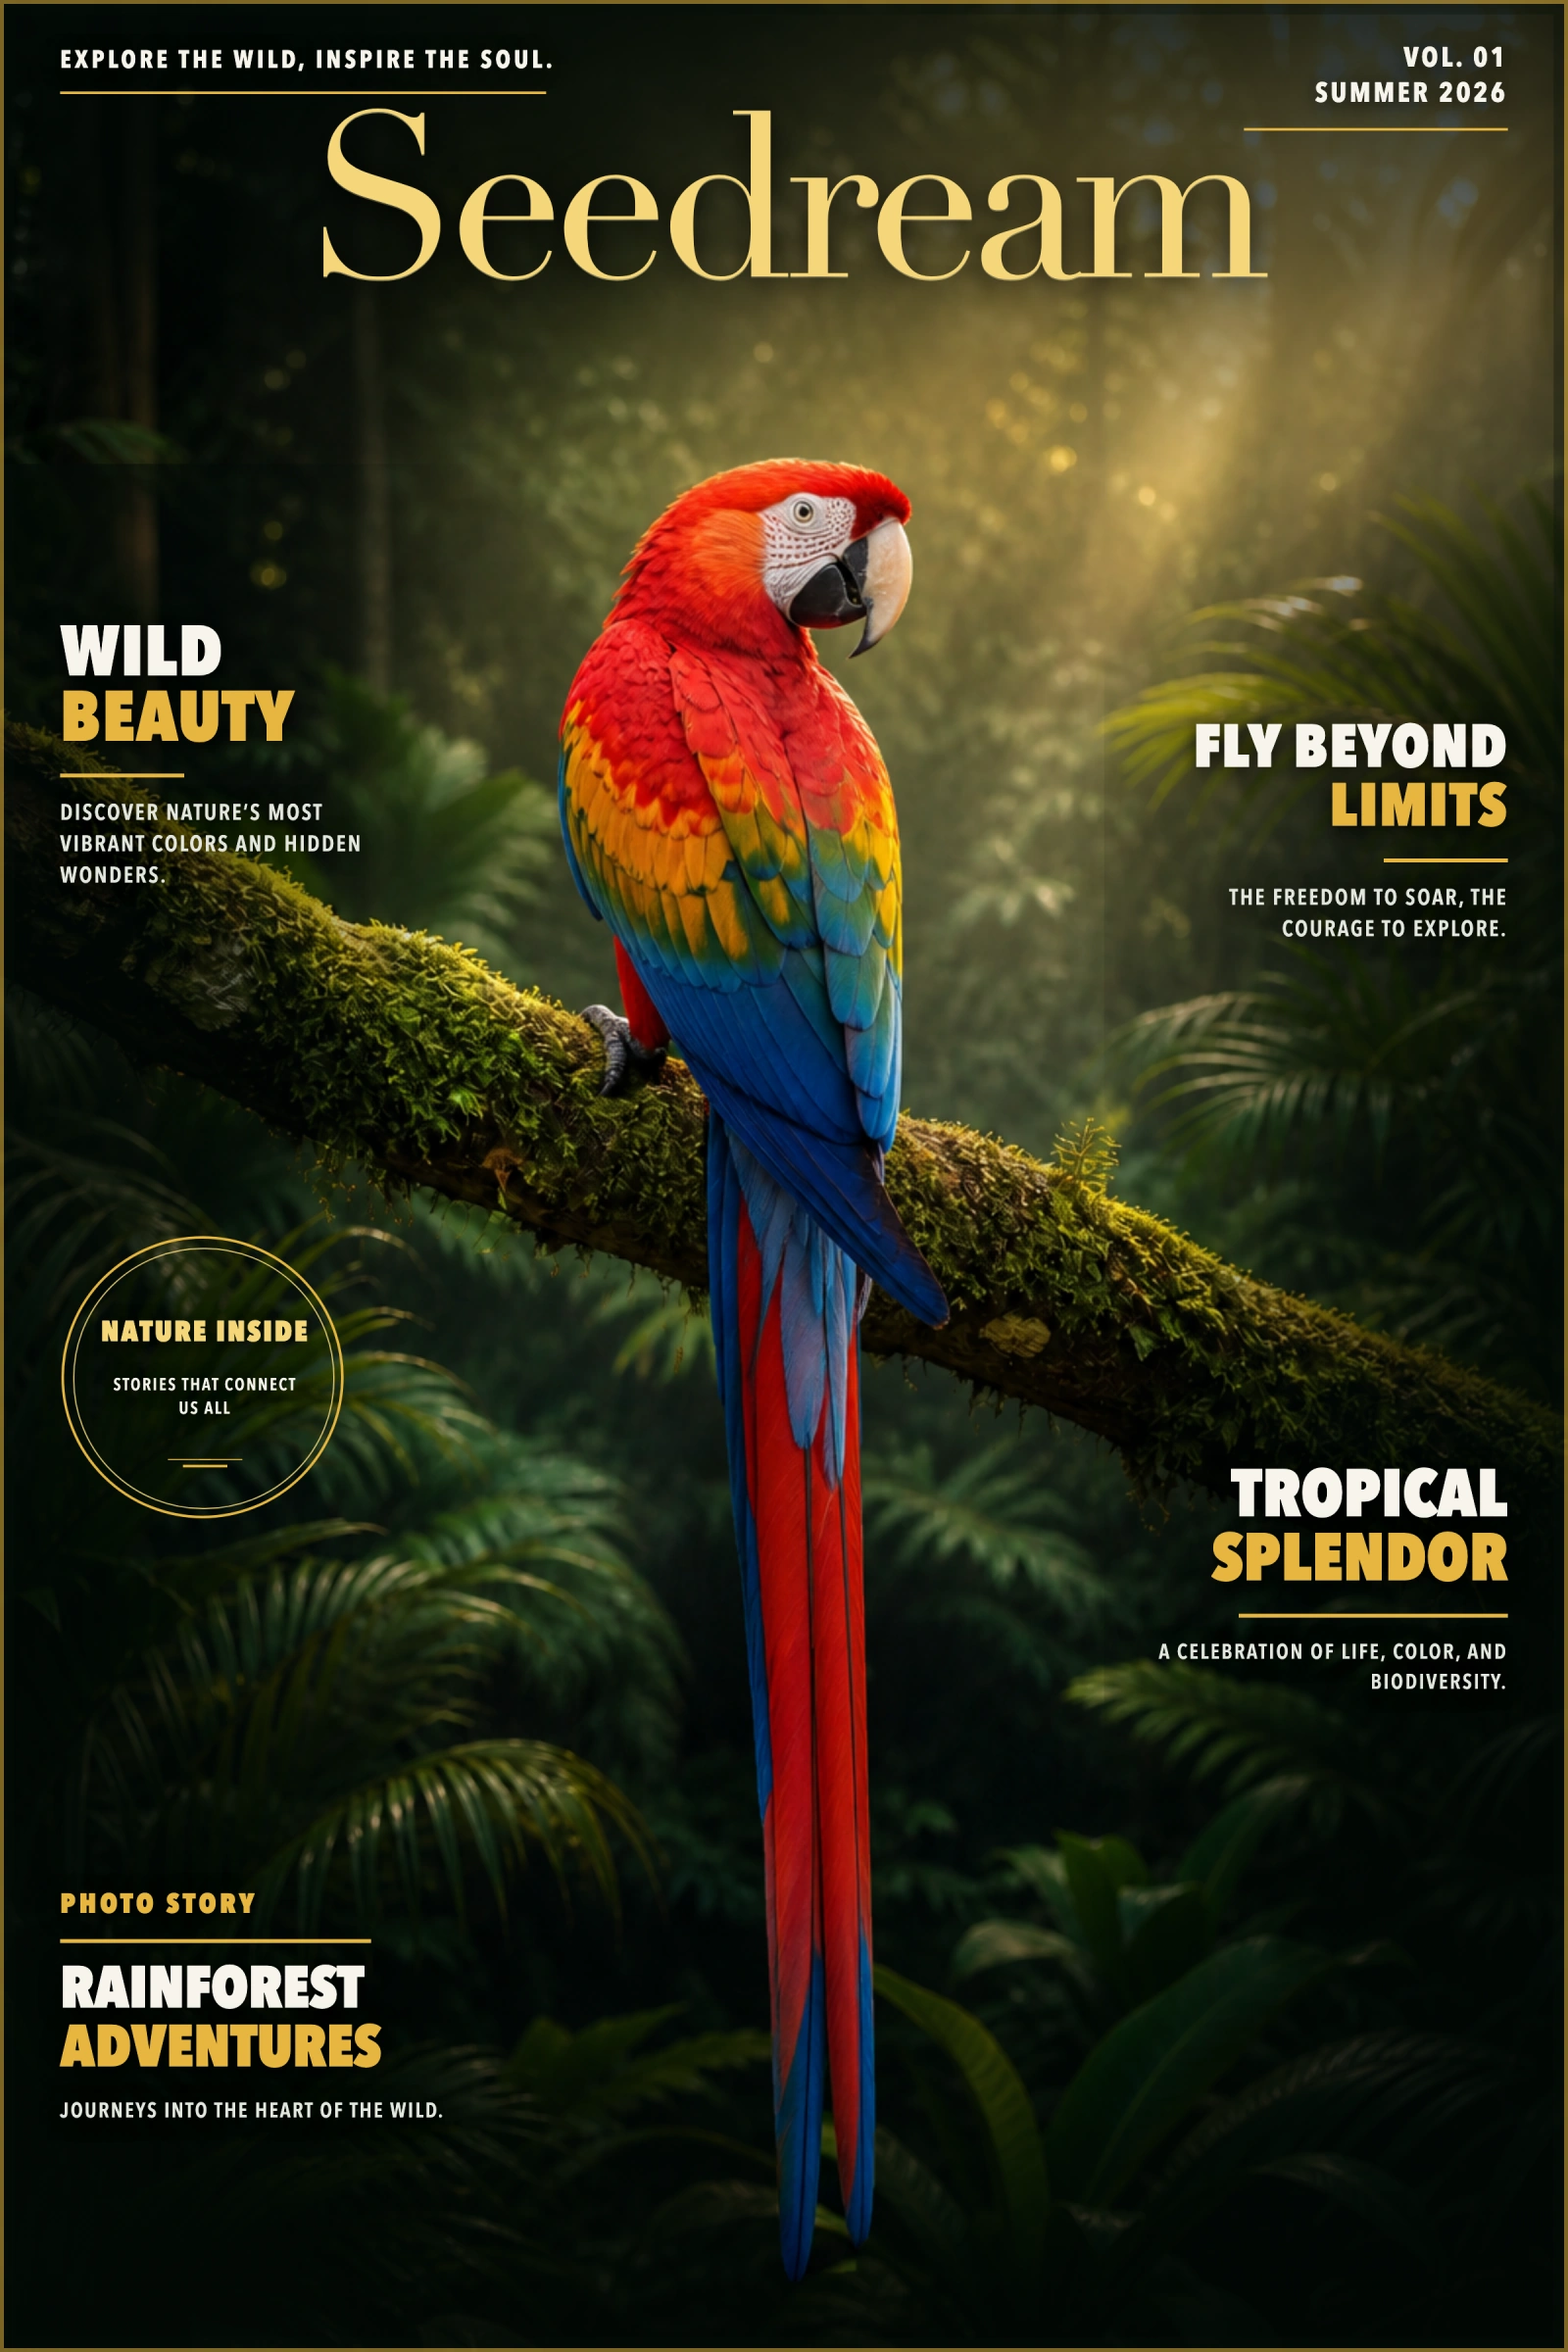
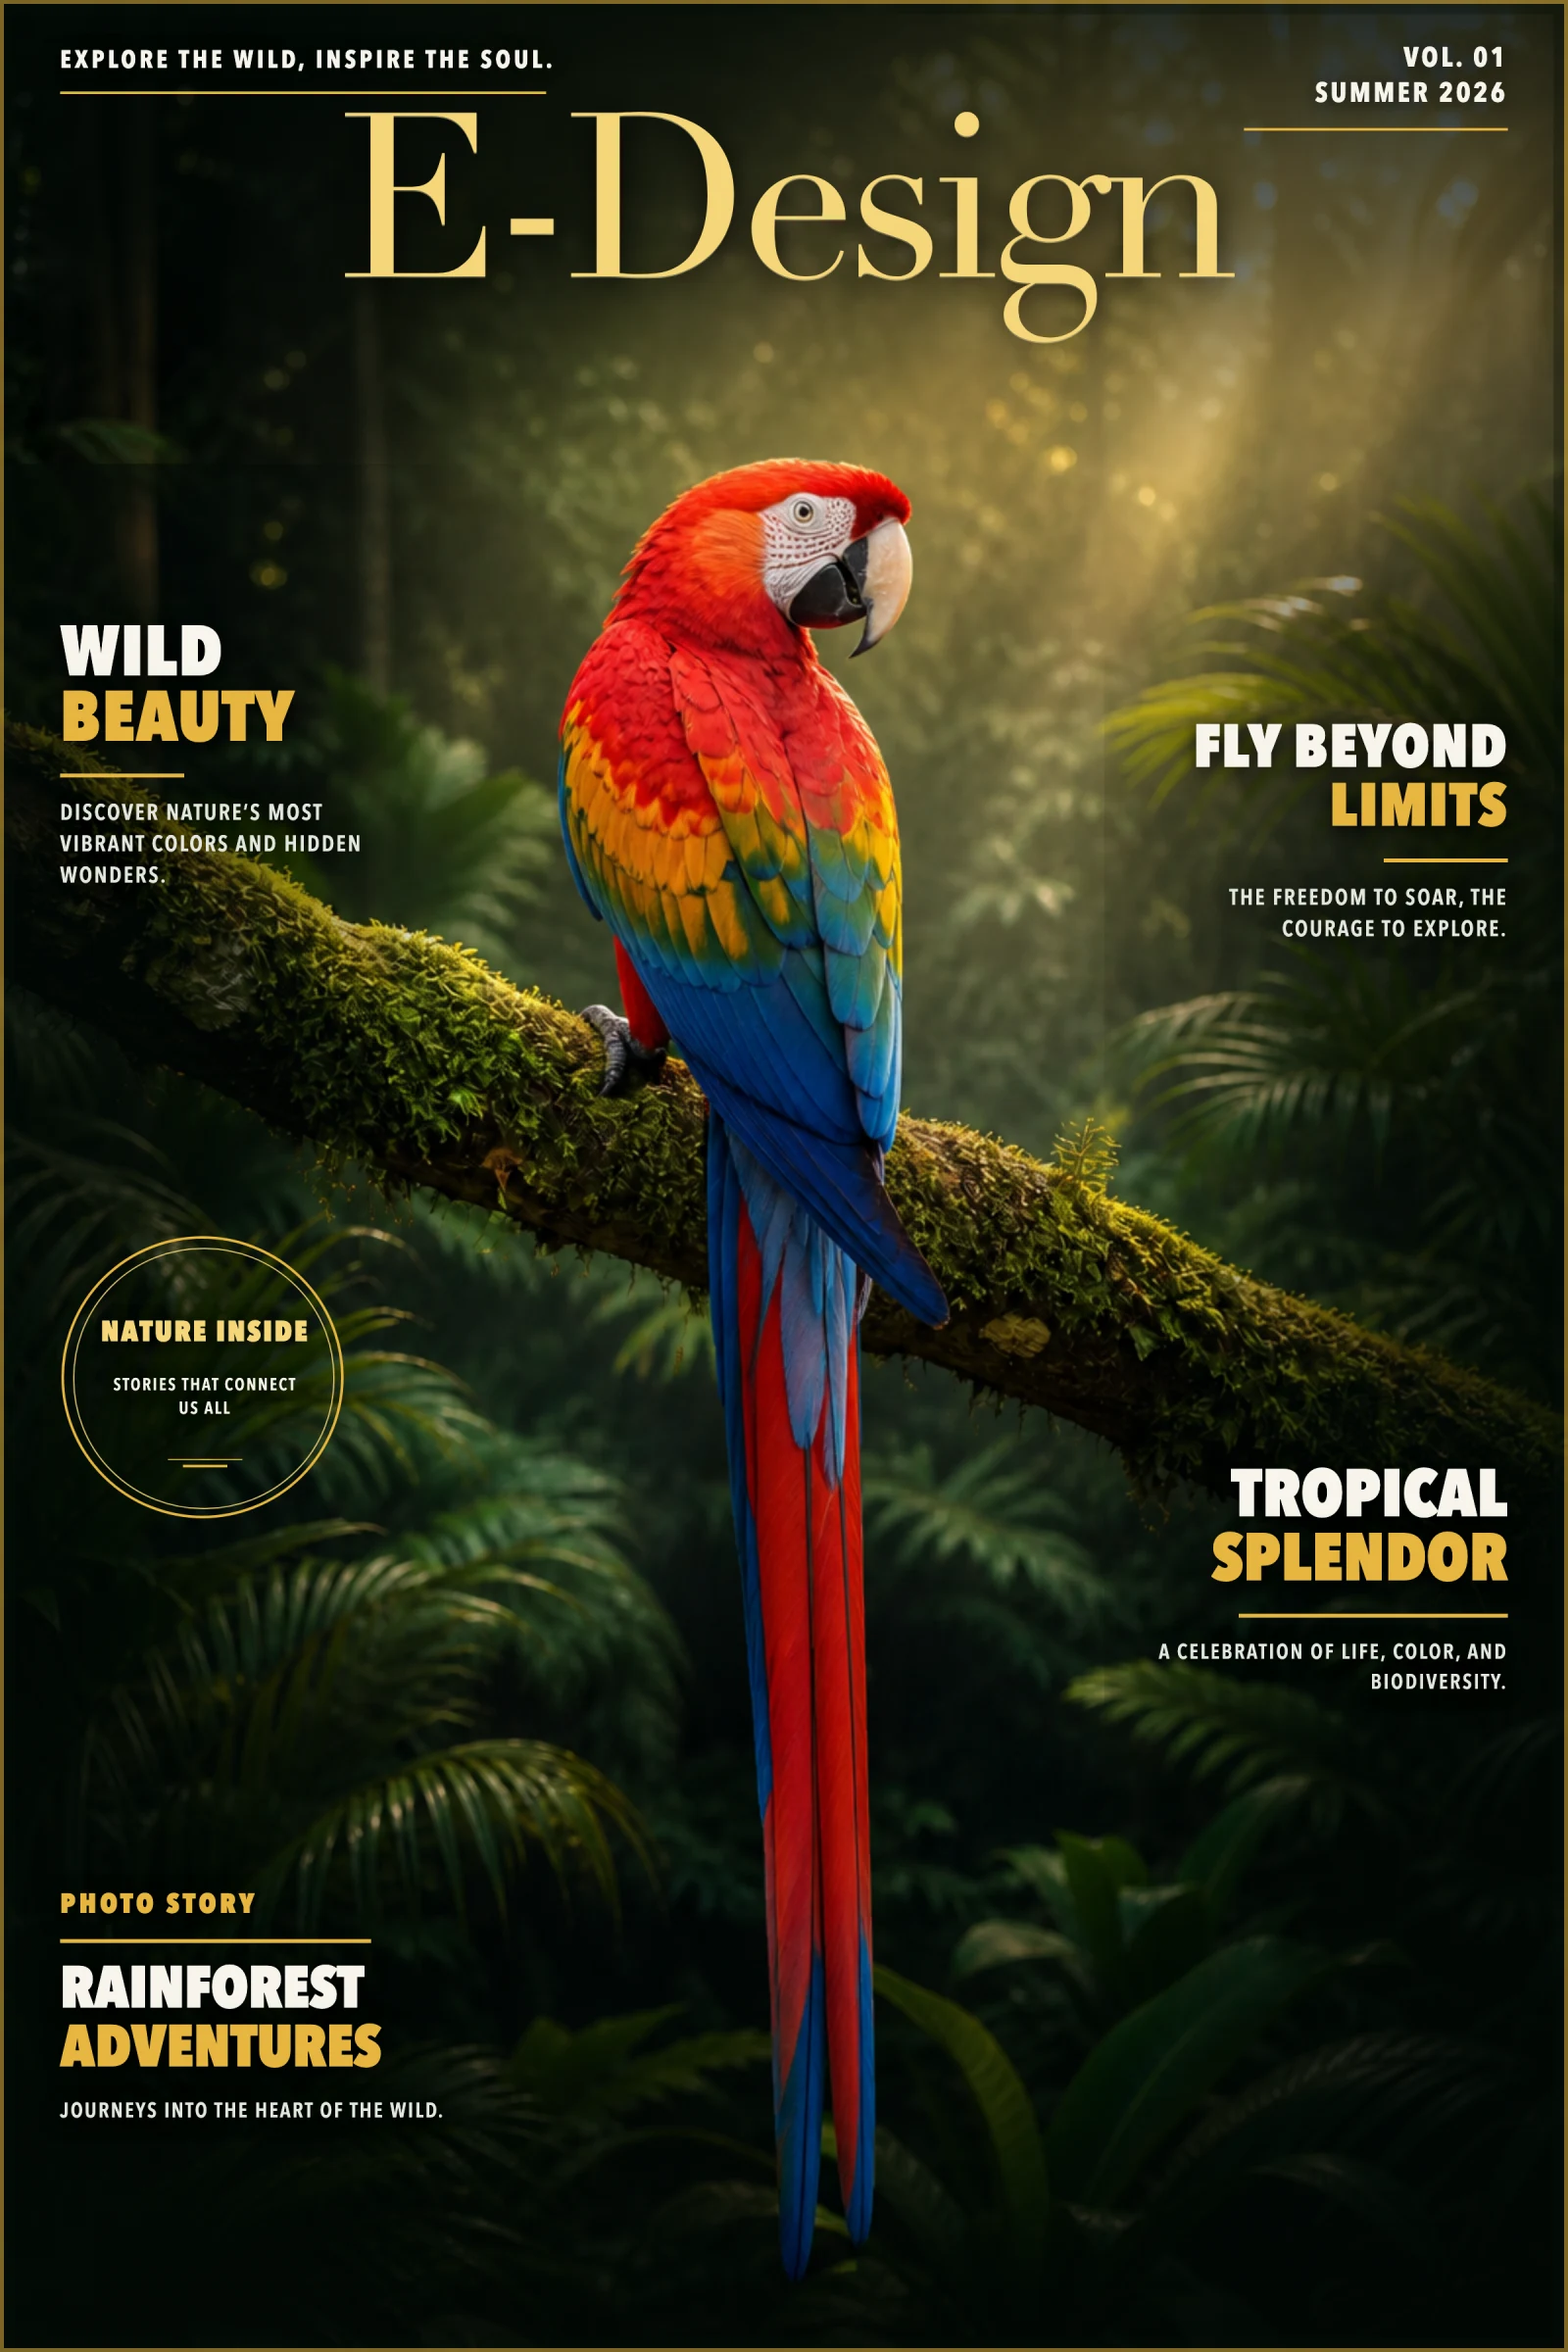
Update E-Design final artwork

Changed region(s): [[0.1875, 0.0312, 0.8125, 0.1562]]

diff --git a/README.md b/README.md
@@ -636,7 +636,7 @@ Create a 2:3 vertical summer music poster with a bright, dreamy, and playful 3D 
 
 ## Poster
 
-### E-design
+### E-Design
 
 <table role="presentation" width="100%">
   <tr>
@@ -644,7 +644,7 @@ Create a 2:3 vertical summer music poster with a bright, dreamy, and playful 3D 
       <details open>
         <summary align="center"><strong>🖼 final-coding-design.png</strong></summary>
         <a href="./gallery/poster/e-design/final.png">
-          <img src="./gallery/poster/e-design/preview.webp" width="100%" alt="E-design">
+          <img src="./gallery/poster/e-design/preview.webp" width="100%" alt="E-Design">
         </a>
       </details>
     </td>
